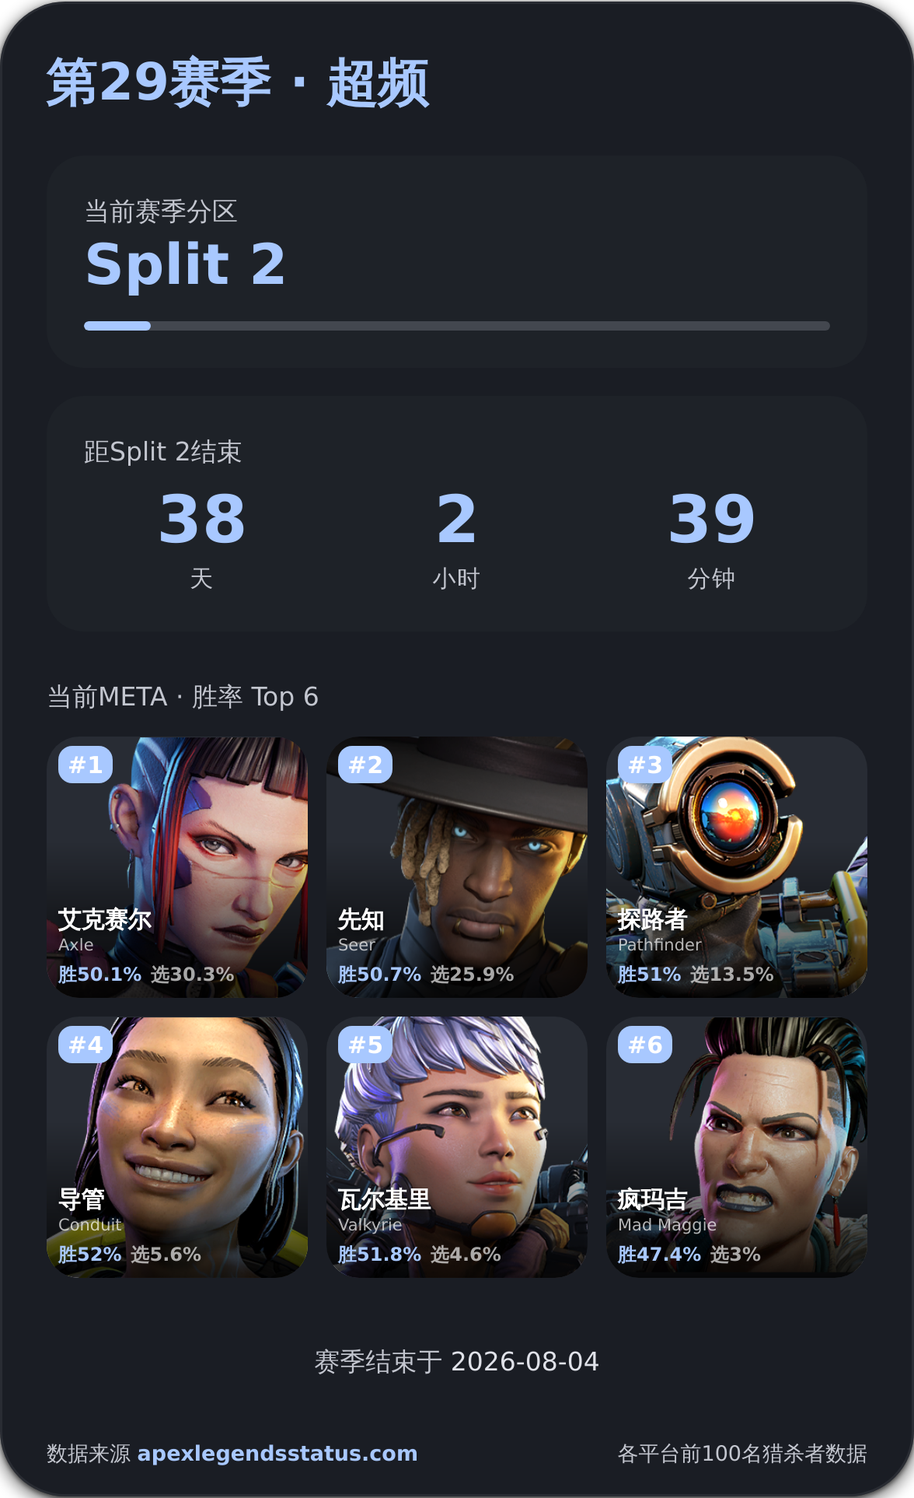
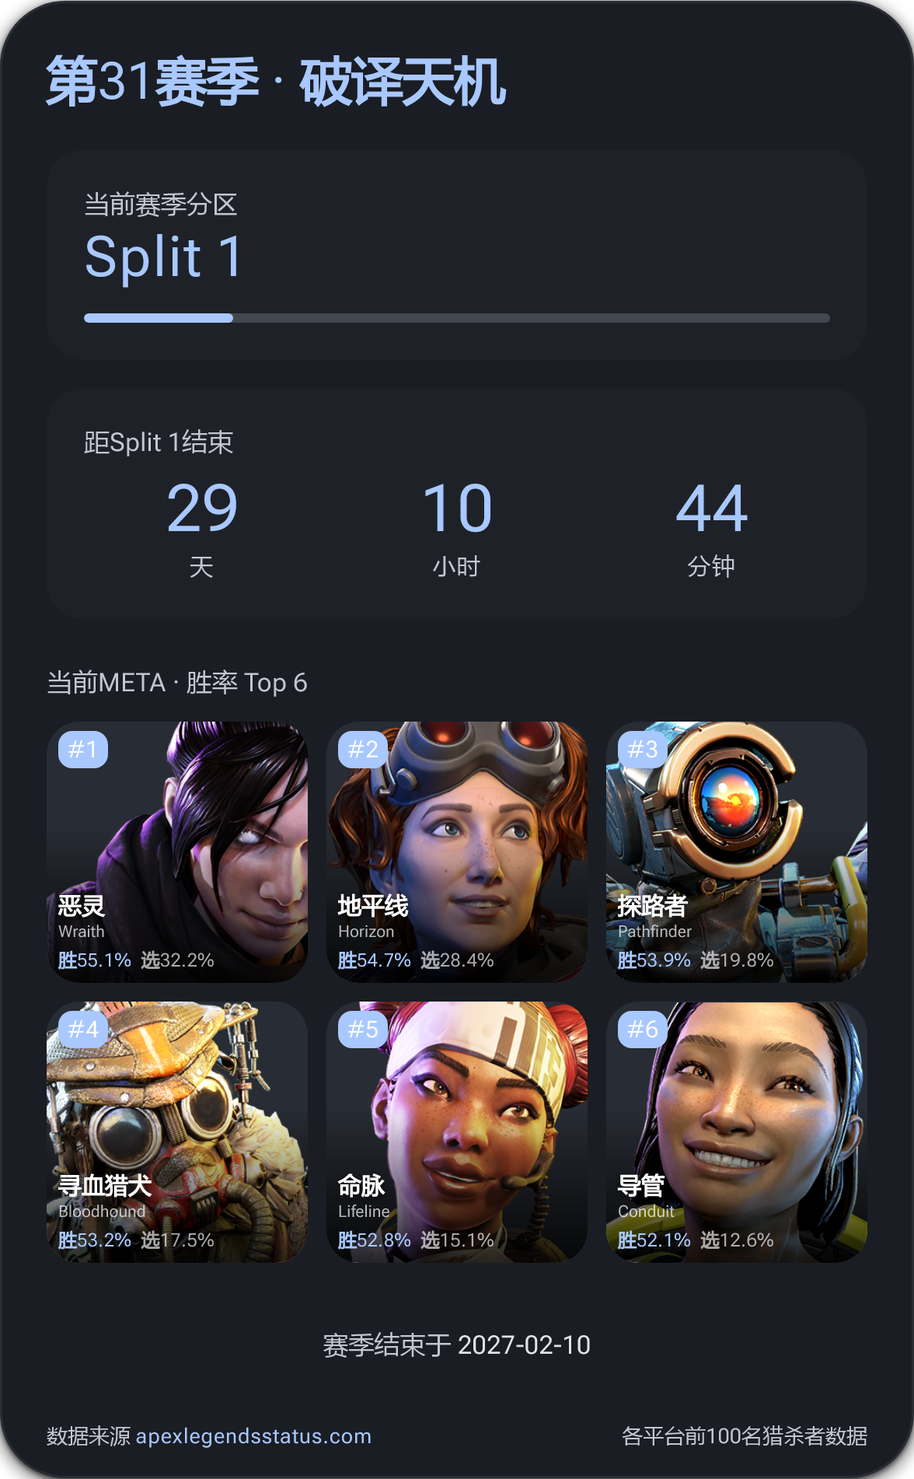
fix: 赛季卡片更新至 Season 31「破译天机」(Cipher)
- 硬编码赛季日期更新: 开始 2026-11-03 18:00 UTC (北京 11-04 02:00),
  Split 1 结束 2026-12-15 18:00 UTC (北京 12-16 02:00),
  赛季结束预估 2027-02-09 18:00 UTC (北京 02-10 02:00)
- 名称映射新增 "Cipher": "破译天机"（EA 官方简体中文译名，非意译）
- 修正时区惯例: S31 处于 PST(UTC-8), 10:00 PT = 18:00 UTC,
  旧注释的 17:00 UTC 是 PDT 夏令时换算，沿用会差 1 小时
- 数据来源: Microsoft Store SKU 9PHG4V7CMHJD
  (StartDate 2026-11-03T18:00:00Z / EndDate 2026-12-15T17:59:59Z),
  ALS new-season-countdown (unix 1797357600), wiki.gg Season_31
- 同步更新 README 预览图 (preview/season.png, preview/season dark.png)
- 新增 docs/season-31-data.md 数据核实报告、scripts/gen_season_preview.py 预览工具

diff --git a/libs/season_scraper.py b/libs/season_scraper.py
@@ -51,6 +51,7 @@ LEGEND_ZH = {
 
 # ── 赛季名中文映射 ──
 SEASON_NAME_ZH = {
+    "Cipher": "破译天机",
     "Marked": "诸神烙印",
     "Overclocked": "超频",
     "Breach": "突破",
@@ -86,15 +87,17 @@ SEASON_NAME_ZH = {
 # ALS legend icon base URL
 ALS_ICON_BASE = "https://apexlegendsstatus.com/assets/legends"
 
-# ── 赛季日期 (数据源: ALS, 时区为 UTC) ──
-# Season 30: 开始 2026-08-04 17:00 UTC, Split 1 结束 2026-09-15 17:00 UTC,
-#            赛季结束 2026-11-03 17:00 UTC (esportstales 预估)
-# Apex 更新惯例为 17:00 UTC (= 北京时间次日 01:00), 抓取时统一转成北京时间。
-# 参考: ALS new-season-countdown 显示 "Season 30: Marked, split 2 releases 16/09 @ 01:00" (北京)
-_SPLIT_DATES_S30 = {
-    "season_start": _dt.datetime(2026, 8, 4, 17, 0, tzinfo=_UTC),
-    "split1_end": _dt.datetime(2026, 9, 15, 17, 0, tzinfo=_UTC),
-    "season_end": _dt.datetime(2026, 11, 3, 17, 0, tzinfo=_UTC),
+# ── 赛季日期 (数据源: ALS / wiki.gg, 时区为 UTC) ──
+# Season 31: 开始 2026-11-03 18:00 UTC (北京 2026-11-04 02:00),
+#            Split 1 结束 2026-12-15 18:00 UTC (北京 2026-12-16 02:00),
+#            赛季结束 2027-02-09 18:00 UTC (北京 2027-02-10 02:00, 预估)
+# Apex 更新惯例为 10:00 PT = 18:00 UTC (= 北京时间次日 02:00), 抓取时统一转成北京时间。
+# 参考: ALS new-season-countdown 显示 "Releases 16/12 @ 02:00" (北京, unix 1797357600);
+#       wiki.gg Season_31 赛季结束 Feb 9, 2027。抓取日期 2026-11-16。
+_SPLIT_DATES_S31 = {
+    "season_start": _dt.datetime(2026, 11, 3, 18, 0, tzinfo=_UTC),
+    "split1_end": _dt.datetime(2026, 12, 15, 18, 0, tzinfo=_UTC),
+    "season_end": _dt.datetime(2027, 2, 9, 18, 0, tzinfo=_UTC),
 }
 
 
@@ -106,15 +109,15 @@ def _utc_to_bj(dt: _dt.datetime) -> _dt.datetime:
 def _determine_split_and_end() -> tuple[int, int, int, int]:
     """Determine current split and compute countdown. Returns (days, hours, minutes, split)."""
     now = _dt.datetime.now(tz=_CST)
-    split1_end = _utc_to_bj(_SPLIT_DATES_S30["split1_end"])
-    s30_end = _utc_to_bj(_SPLIT_DATES_S30["season_end"])
+    split1_end = _utc_to_bj(_SPLIT_DATES_S31["split1_end"])
+    s31_end = _utc_to_bj(_SPLIT_DATES_S31["season_end"])
 
     if now < split1_end:
         split = 1
         split_end = split1_end
     else:
         split = 2
-        split_end = s30_end
+        split_end = s31_end
 
     delta = split_end - now
     days = max(0, delta.days)
@@ -133,12 +136,12 @@ async def fetch_season_info() -> SeasonInfo | None:
 
     days_left, hours_left, minutes_left, split = _determine_split_and_end()
     split_label = f"Split {split}"
-    season_name_zh = SEASON_NAME_ZH.get("Marked", "诸神烙印")
-    season_start_bj = _utc_to_bj(_SPLIT_DATES_S30["season_start"]).strftime("%Y-%m-%d")
-    season_end_bj = _utc_to_bj(_SPLIT_DATES_S30["season_end"]).strftime("%Y-%m-%d")
+    season_name_zh = SEASON_NAME_ZH.get("Cipher", "破译天机")
+    season_start_bj = _utc_to_bj(_SPLIT_DATES_S31["season_start"]).strftime("%Y-%m-%d")
+    season_end_bj = _utc_to_bj(_SPLIT_DATES_S31["season_end"]).strftime("%Y-%m-%d")
 
     result = SeasonInfo(
-        season_number=30,
+        season_number=31,
         season_name=season_name_zh,
         season_start=season_start_bj,
         season_end=season_end_bj,

diff --git a/scripts/gen_season_preview.py b/scripts/gen_season_preview.py
@@ -1,0 +1,96 @@
+"""本地预览赛季信息卡片：真实数据 → Jinja HTML → Playwright PNG。
+
+用法（仓库根目录）：
+    python scripts/gen_season_preview.py [--live-meta]
+
+默认使用固定的 META 样例数据，避免依赖 ALS meta 页面；加 --live-meta 时
+尝试真实抓取，失败自动回退样例。输出：
+    data/preview_season/season.html
+    data/preview_season/season.png
+"""
+from __future__ import annotations
+
+import asyncio
+import sys
+from pathlib import Path
+
+_ROOT = Path(__file__).parent.parent
+sys.path.insert(0, str(_ROOT))
+
+_OUT = _ROOT / "data" / "preview_season"
+
+# 样例 META（真实抓取失败时使用；图标使用 ALS 公共资源路径）
+SAMPLE_META = [
+    {"name": "恶灵", "en": "Wraith", "win_rate": "55.1%", "pick_rate": "32.2%"},
+    {"name": "地平线", "en": "Horizon", "win_rate": "54.7%", "pick_rate": "28.4%"},
+    {"name": "探路者", "en": "Pathfinder", "win_rate": "53.9%", "pick_rate": "19.8%"},
+    {"name": "寻血猎犬", "en": "Bloodhound", "win_rate": "53.2%", "pick_rate": "17.5%"},
+    {"name": "命脉", "en": "Lifeline", "win_rate": "52.8%", "pick_rate": "15.1%"},
+    {"name": "导管", "en": "Conduit", "win_rate": "52.1%", "pick_rate": "12.6%"},
+]
+
+
+def _fallback_meta():
+    from libs.season_scraper import SeasonMetaLegend
+
+    return [
+        SeasonMetaLegend(
+            name=m["name"],
+            en=m["en"],
+            icon=(
+                "https://apexlegendsstatus.com/assets/legends-select/"
+                f"{m['en'].lower().replace(' ', '')}.png"
+            ),
+            win_rate=m["win_rate"],
+            pick_rate=m["pick_rate"],
+        )
+        for m in SAMPLE_META
+    ]
+
+
+async def main() -> int:
+    from libs import season_scraper
+    from libs.playwright_renderer import _build_season_html, draw_season_card
+
+    _OUT.mkdir(parents=True, exist_ok=True)
+
+    season = await season_scraper.fetch_season_info()
+    if season is None:
+        print("[ERR] fetch_season_info() 返回 None")
+        return 1
+
+    meta = []
+    if "--live-meta" in sys.argv:
+        try:
+            meta = await season_scraper.fetch_meta_top5()
+            print(f"[INFO] live meta: {len(meta)} 条")
+        except Exception as exc:  # noqa: BLE001 - 预览脚本，失败回退即可
+            print(f"[WARN] live meta 失败，回退样例: {type(exc).__name__}: {exc}")
+    if not meta:
+        meta = _fallback_meta()
+        print(f"[INFO] sample meta: {len(meta)} 条")
+
+    html = _build_season_html(season, meta)
+    html_path = _OUT / "season.html"
+    html_path.write_text(html, encoding="utf-8")
+    print(f"[OK] HTML -> {html_path}")
+
+    png = await draw_season_card(season, meta)
+    if not png:
+        print("[ERR] draw_season_card() 返回空")
+        return 1
+    png_path = _OUT / "season.png"
+    png_path.write_bytes(png)
+    print(f"[OK] PNG  -> {png_path} ({len(png)} bytes)")
+
+    print("\n── 卡片数据 ──")
+    print(
+        f"第{season.season_number}赛季 {season.season_name} | {season.split_label} | "
+        f"倒计时 {season.days_left}d {season.hours_left}h {season.minutes_left}m | "
+        f"结束 {season.season_end} | 开始 {season.season_start}"
+    )
+    return 0
+
+
+if __name__ == "__main__":
+    raise SystemExit(asyncio.run(main()))

diff --git a/docs/season-31-data.md b/docs/season-31-data.md
@@ -1,0 +1,216 @@
+# Season 31「破译天机」(Cipher) 赛季数据核实报告
+
+> 调研日期：2026-11-16（Asia/Shanghai）
+> 用途：为 `libs/season_scraper.py` 的硬编码赛季日期（当前仍为 Season 30「诸神烙印」Marked）提供 Season 31 的替换数据。
+> 本文件为纯调研产出，未修改任何源码。
+
+---
+
+## 一、结论速览
+
+| 字段 | 值（UTC） | 值（北京时间 Asia/Shanghai） | 置信度 | 性质 |
+| --- | --- | --- | --- | --- |
+| 英文赛季名 | `Cipher` | — | 高 | 官方确认 |
+| 官方简体中文名 | `破译天机` | — | 高 | 官方确认（EA 官方中文站） |
+| `season_start` | 2026-11-03 18:00 UTC | 2026-11-04 02:00 | 高 | 官方确认（商店 SKU 时间戳） |
+| `split1_end` | 2026-12-15 18:00 UTC | 2026-12-16 02:00 | 高 | 官方确认（通行证售卖截止 + ALS 倒计时） |
+| `season_end` | 2027-02-09 18:00 UTC | 2027-02-10 02:00 | 中 | **预估**（日期来自 wiki，时刻为惯例推定） |
+
+**给 `season_scraper.py` 的建议值（UTC）：**
+
+```python
+_SPLIT_DATES_S31 = {
+    "season_start": _dt.datetime(2026, 11, 3, 18, 0, tzinfo=_UTC),
+    "split1_end":   _dt.datetime(2026, 12, 15, 18, 0, tzinfo=_UTC),
+    "season_end":   _dt.datetime(2027, 2, 9, 18, 0, tzinfo=_UTC),
+}
+```
+
+> ⚠ **关键修正**：仓库现有注释写「Apex 更新惯例为 17:00 UTC」，那是**夏令时（PDT, UTC-7）**时期的换算。Season 31 于 2026-11-03 开赛，此时美国已于 **2026-11-01 结束夏令时**，太平洋时间回到 **PST = UTC-8**，因此 10:00 PT = **18:00 UTC**（北京次日 02:00），比夏季晚 1 小时。Season 30 的 17:00 UTC 是 8 月（PDT）的正确换算，Season 31 必须改成 18:00 UTC。
+
+---
+
+## 二、英文名与中文译名
+
+### 2.1 英文名：`Cipher`（确认）
+
+- EA 官方补丁说明标题即 `Apex Legends™: Cipher Patch Notes`（2026-11-02 发布）。
+- Apex Legends Wiki 的 Season 31 页面 infobox 与正文均写作 *Cipher*。
+- 拼写无歧义，非 *Cypher*（部分第三方站点如 esportstales 误写为 "Cypher"，属笔误，不予采信）。
+
+### 2.2 官方简体中文名：`破译天机`（官方确认，非意译候选）
+
+**这是本次调研最重要的发现：Season 31 有 EA 官方简体中文译名，不需要自创意译。**
+
+证据链：
+
+1. **EA 官方中文站（繁体）** 的补丁说明页标题为《Apex 英雄：**破譯天機**》改版資訊，正文首句「《Apex 英雄：破譯天機》登場！」。
+   <https://www.ea.com/zh-hant/games/apex-legends/apex-legends/news/cipher-patch-notes>
+2. **EA 官方中文站（繁体）赛季专题页** 标题《Apex 英雄：破譯天機》，副标题「在《Apex 英雄：破譯天機》中駭入戰鬥」。
+   <https://www.ea.com/zh-hant/games/apex-legends/apex-legends/seasons/cipher>
+3. **EA Help 简体中文支持文章**（这是**简体**官方文本，直接给出简体译名）：「《Apex Legends》最新赛季"**破译天机**"将于 2026 年 11 月 3 日开启。」并在过往赛季列表中写作「诸神烙印（第 30 赛季）」「超频（第 29 赛季）」——与仓库 `SEASON_NAME_ZH` 的历史译名完全一致，说明该表本就以 EA 官方中文名为准。
+   <https://help.ea.com/zh/articles/apex-legends/seasons-and-updates/>
+4. 中文媒体一致沿用该官方译名：游侠网《Apex英雄：破译天机》11 月 3 日上线、17173、TapTap 官方社区、VeryApex、Steam 中文社区等。
+
+**结论**：`SEASON_NAME_ZH` 应新增 `"Cipher": "破译天机"`。
+
+### 2.3 备选意译（仅作记录，不推荐使用）
+
+若未来某赛季确实没有官方译名，可参考以下思路；但 Season 31 已有官方名，**不应采用**：
+
+| 候选 | 理由 | 问题 |
+| --- | --- | --- |
+| 密文 / 密码 | cipher 的字面义，直白 | 过于平淡，缺少赛季主题的「情报战」张力 |
+| 暗码 | 呼应本赛季主角密客（Crypto）与「情报即武器」主题 | 与官方名冲突 |
+| 破译天机 | **官方译名**，取「破解天机、抢占先机」之意 | — |
+
+---
+
+## 三、三个时间点的推导与依据
+
+### 3.1 `season_start` = 2026-11-03 18:00 UTC（北京 2026-11-04 02:00）
+
+**DST 校验**：美国 2026 年夏令时于 **2026-11-01** 结束（2:00 AM PDT → 1:00 AM PST）。2026-11-03 处于 **PST（UTC-8）**。Apex 赛季更新惯例为太平洋时间 10:00 AM，故：
+
+```
+10:00 PST (UTC-8) = 18:00 UTC = 北京时间 2026-11-04 02:00
+```
+
+（若按夏季 PDT/UTC-7 换算才会得到 17:00 UTC / 北京 01:00 —— 这正是仓库旧注释的来源，Season 31 不适用。）
+
+**证据：**
+
+| 来源 | 内容 | 分级 |
+| --- | --- | --- |
+| Microsoft Store 商品 API（Cipher Ultimate+ Battle Pass Split 1，ProductId `9PHG4V7CMHJD`） | SKU `StartDate: "2026-11-03T18:00:00Z"` —— **机器可读的官方商店时间戳，最硬证据** | 官方确认 |
+| <https://apexranked.com/apex-season-31> | "Season 31 started Tuesday, November 3, 2026 at 10:00 AM PST (6:00 PM UTC)"，并列出各城市对照（London 6:00 PM、Tokyo Wed 3:00 AM） | 媒体（与官方一致） |
+| <https://clip.dor.gg/zh-CN/blog/apex-new-season> | 「美国夏令时已在 11 月 1 日结束，换算北京时间是 11 月 4 日（周三）凌晨 2 点……网上有些时间表仍按夏令时换算，会差 1 小时」 | 媒体（明确点出 DST 陷阱） |
+| <https://www.ea.com/games/apex-legends/apex-legends/news/cipher-patch-notes> | "Season 31 begins on November 3rd"（只给日期，未给时刻） | 官方确认（日期） |
+| <https://help.ea.com/en/articles/apex-legends/seasons-and-updates/> | "Cipher, the newest Season of Apex Legends, launches on November 3, 2026"（只给日期） | 官方确认（日期） |
+
+> 注：EA 官方公告**从不公布具体开服时刻**，只给日期。18:00 UTC 的依据是「官方商店 SKU 时间戳 + 10:00 PT 惯例 + DST 校验」三者吻合。
+
+### 3.2 `split1_end` = 2026-12-15 18:00 UTC（北京 2026-12-16 02:00）
+
+**证据：**
+
+| 来源 | 内容 | 分级 |
+| --- | --- | --- |
+| Microsoft Store 商品 API（同上 SKU） | `EndDate: "2026-12-15T17:59:59Z"`（即 18:00 UTC 截止） | 官方确认 |
+| PlayStation Store（Cipher Ultimate+ Battle Pass Split 1） | "The \"Cipher\" Ultimate+ Battle Pass Split 1 is available until **December 15th, 2026 10 AM PT**." | 官方确认 |
+| Xbox Store（Cipher Ultimate Battle Pass Split 1） | "available until December 15th, 2026 at 10 AM PT" | 官方确认 |
+| <https://apexlegendsstatus.com/new-season-countdown.php> | 页面内嵌 `let startTime = 1797357600;` → 换算 UTC **2026-12-15 18:00:00**（周二），页面渲染为 "Releases 16/12 @ 02:00"（本地时区北京） | 社区权威（ALS） |
+| <https://blog.gamee.games/apex-season31-split1-end-date-2026/> | 「スプリット1終了：日本時間 2026年12月16日（水）午前3:00（太平洋標準時 12月15日 10:00 AM PST）」，并说明依据是 PS/Xbox 商店「Cipher Ultimate Battle Pass Split 1」商品页的售卖截止 | 媒体（与官方商店一致） |
+| <https://www.propelrc.com/apex-legends-next-season-start-date/> | "Season 31 Split 1 reset is scheduled for December 15, 2026, around 10:00 AM, per EA Help and the Apex Legends Status tracker" | 媒体 |
+
+**换算校验**：`1797357600` → UTC `2026-12-15 18:00:00`（周二）→ 北京 `2026-12-16 02:00`（周三）→ JST `2026-12-16 03:00`。与日媒「12月16日午前3:00」完全吻合，交叉验证通过。
+
+**Split 1 时长**：2026-11-03 → 2026-12-15 = **42 天（6 周整）**，与 Apex 惯例（约 6 周）一致。
+
+### 3.3 `season_end` = 2027-02-09 18:00 UTC（北京 2027-02-10 02:00）—— **预估**
+
+**日期部分（2027-02-09）来源：**
+
+| 来源 | 内容 | 分级 |
+| --- | --- | --- |
+| <https://apexlegends.wiki.gg/wiki/Season_31> | infobox `End date: February 9, 2027`；正文 "will be ended on February 9, 2027" | 社区 wiki（非官方，但为最常被引用的赛季表） |
+| <https://apexseasons.online/seasons/season-31-cipher/> | "Ends Feb 9, 2027"，Duration 98 days，Data Confidence: **medium**；并明确 "February 9, 2027 at 18:00 UTC is a planning estimate using the 14-week length of recent November seasons, not an announced Season 32 release" | 媒体预估（自述为 estimate） |
+
+**时刻部分（18:00 UTC）**：EA **未公布** Season 31 结束时刻。采用 18:00 UTC 的理由：
+1. 与 `season_start` / `split1_end` 同为 PST 时期 10:00 AM PT 的换算结果，赛季切换与 Split 切换在 Apex 中始终同一时刻；
+2. 2027-02-09 仍处于 PST（美国 2027 年夏令时 3 月才开始），故 10:00 PT = 18:00 UTC。
+
+**矛盾来源（必须记录）：**
+
+| 来源 | 给出的结束日 | 说明 |
+| --- | --- | --- |
+| wiki.gg / apexseasons.online | **2027-02-09** | 98 天赛季长度（14 周），与近期 11 月赛季节奏一致 |
+| <https://ggseason.com/apex/> | 2027-02-02（EST.） | 按「约 3 个月」粗估，未考虑 14 周 |
+| <https://boostroyal.com/apex-season> | 2027-02-02（expected） | 同上，且自述 "Respawn has not published an end date" |
+| <https://apexdb.gg/season/season-31/> | 区间 2027-01-25 ~ 2027-02-08 | 按 83~97 天区间推算，明确 "That's an estimate, not EA's date" |
+| <https://blog.gamee.games/apex-season32-when-2027/> | 2027-02-03（JST 03:00） | 由 Split 1 结束 + 7 周推算 |
+| <https://www.esportstales.com/apex-legends/season-end-date> | "around mid February, 2027" | 只给模糊区间 |
+
+**最终采信**：`2027-02-09 18:00 UTC`。理由：wiki.gg 的 2/9 与 98 天（14 周）赛季长度自洽，且 11 月开赛的赛季历史上多为 14 周（如 Season 23 From the Rift 97 天、Season 27 Amped 98 天）；其余站点多为「3 个月」粗估。**但必须标注为预估，EA 未确认。**
+
+---
+
+## 四、完整来源清单
+
+抓取时间均为 **2026-11-16 15:00–15:25 (Asia/Shanghai)**。
+
+### 官方（EA / Respawn / 平台商店）
+
+| # | URL | 提供的信息 | 分级 |
+| --- | --- | --- | --- |
+| 1 | <https://www.ea.com/games/apex-legends/apex-legends/news/cipher-patch-notes> | 赛季名 Cipher；"Season 31 begins on November 3rd"；Split 1 内容 | 官方确认 |
+| 2 | <https://www.ea.com/zh-hant/games/apex-legends/apex-legends/news/cipher-patch-notes> | **官方中文名《Apex 英雄：破譯天機》** | 官方确认 |
+| 3 | <https://www.ea.com/zh-hant/games/apex-legends/apex-legends/seasons/cipher> | 官方中文赛季专题页《Apex 英雄：破譯天機》 | 官方确认 |
+| 4 | <https://help.ea.com/zh/articles/apex-legends/seasons-and-updates/> | **简体官方文本「破译天机」**；过往赛季中文名表（诸神烙印/超频…） | 官方确认 |
+| 5 | <https://help.ea.com/en/articles/apex-legends/seasons-and-updates/> | "Cipher … launches on November 3, 2026"；Season 30 Marked 结束于 2026-11-02 | 官方确认 |
+| 6 | <https://www.ea.com/games/apex-legends/apex-legends/news/cipher-game-updates> | 2026-10-29 玩法预告（Crypto 重做、Akimbo Wingman、Strongholds） | 官方确认 |
+| 7 | Microsoft Store 商品 API `https://storeedgefd.dsx.mp.microsoft.com/v9.0/products/9PHG4V7CMHJD?market=US&locale=en-US&deviceFamily=Windows.Xbox` | **`StartDate 2026-11-03T18:00:00Z` / `EndDate 2026-12-15T17:59:59Z`** | 官方确认（机器可读） |
+| 8 | <https://store.playstation.com/en-us/product/UP0006-CUSA12540_00-S310ULTIMATEPLUS> | "available until December 15th, 2026 10 AM PT" | 官方确认 |
+| 9 | <https://www.xbox.com/en-US/games/store/apex-legends-cipher-ultimate-battle-pass-split-1/9nwbnp4lxq86> | "available until December 15th, 2026 at 10 AM PT" | 官方确认 |
+
+### 社区 / 媒体（交叉验证）
+
+| # | URL | 提供的信息 | 分级 |
+| --- | --- | --- | --- |
+| 10 | <https://apexlegends.wiki.gg/wiki/Season_31> | Start 2026-11-03 / End **2027-02-09**；主题 Nanite；Reactive Wingman | 社区 wiki |
+| 11 | <https://apexlegendsstatus.com/new-season-countdown.php> | `startTime = 1797357600` → 2026-12-15 18:00 UTC；"Season 31 : Cipher, split 1" | 社区权威（ALS） |
+| 12 | <https://apexranked.com/apex-season-31> | "10:00 AM PST (6:00 PM UTC)"，各城市时刻表 | 媒体（与官方一致） |
+| 13 | <https://apexranked.com/apex-ranked-reset> | "Season 31 Split 1 Started Nov 3, 2026 10:00 AM PST"；"next reset time has not been confirmed" | 媒体 |
+| 14 | <https://clip.dor.gg/zh-CN/blog/apex-new-season> | 北京 11-04 02:00；明确 DST 陷阱说明 | 媒体（中文） |
+| 15 | <https://blog.gamee.games/apex-season31-split1-end-date-2026/> | Split 1 结束 JST 2026-12-16 03:00（= PST 12-15 10:00） | 媒体（日文） |
+| 16 | <https://blog.gamee.games/apex-season32-when-2027/> | S32 预估 2027-02-03 JST（= 02-02 10:00 PST） | 媒体预估 |
+| 17 | <https://apexseasons.online/seasons/season-31-cipher/> | End Feb 9 2027 18:00 UTC（自述 estimate，confidence medium） | 媒体预估 |
+| 18 | <https://apexdb.gg/season/season-31/> | "EA hasn't said when Season 31 ends"；区间 2027-01-25 ~ 02-08 | 媒体预估 |
+| 19 | <https://ggseason.com/apex/> | 预估 2027-02-02 | 媒体预估 |
+| 20 | <https://boostroyal.com/apex-season> | 预估 2027-02-02；"Respawn has not published an end date" | 媒体预估 |
+| 21 | <https://www.esportstales.com/apex-legends/season-end-date> | "around mid February, 2027"；赛季起止表（S31 写作 "Cypher"，笔误） | 媒体预估 |
+| 22 | <https://www.propelrc.com/apex-legends-next-season-start-date/> | Split 1 reset 2026-12-15 约 10:00 AM | 媒体 |
+| 23 | <https://www.ali213.net/news/html/2026-10/1050531.html> | 游侠网：《Apex英雄：破译天机》11 月 3 日上线（官方稿件转载） | 媒体（中文） |
+| 24 | <https://www.taptap.cn/moment/866656388753919185> | TapTap：新赛季「破译天机」正式上线 | 媒体（中文） |
+
+### 抓取失败 / 不可用（记录以便复现）
+
+- `https://dotesports.com/apex-legends/news/start-end-dates-apex-legends-seasons` → HTTP 403（反爬），未能取得赛季起止表。
+- `https://liquipedia.net/apexlegends/Season_31` → Cloudflare 人机验证，未取得内容。
+- `https://apexlegends.wiki.gg/wiki/Season_31?action=raw` / `api.php` / `Special:Export` → HTTP 403，只能读渲染后的 HTML。
+- `https://apexlegendsstatus.com/new-season-countdown`（无 `.php`）→ HTTP 406，必须用 `.php` 变体。
+- `https://psdeals.net` / `https://xbdeals.net` 搜索页 → HTTP 403。
+- `https://www.trueachievements.com/products/...` → HTTP 403。
+
+---
+
+## 五、与仓库现状的差异（供改代码时参考）
+
+| 项 | 仓库当前（Season 30） | Season 31 应为 |
+| --- | --- | --- |
+| `season_number` | 30 | **31** |
+| `season_name` | 诸神烙印 | **破译天机** |
+| `SEASON_NAME_ZH` | 无 `Cipher` 键 | 新增 `"Cipher": "破译天机"` |
+| `season_start` | 2026-08-04 17:00 UTC | **2026-11-03 18:00 UTC** |
+| `split1_end` | 2026-09-15 17:00 UTC | **2026-12-15 18:00 UTC** |
+| `season_end` | 2026-11-03 17:00 UTC | **2027-02-09 18:00 UTC**（预估） |
+| 注释「惯例 17:00 UTC」 | 夏令时换算 | 应改为「夏令时 17:00 UTC / 冬令时 18:00 UTC」 |
+
+**当前时点（2026-11-16）应显示**：Season 31、Split 1、距 Split 1 结束约 29 天。
+
+---
+
+## 六、置信度总结
+
+| 结论 | 置信度 | 说明 |
+| --- | --- | --- |
+| EN 名 = Cipher | ★★★★★ | EA 官方标题 + wiki 双重确认 |
+| 中文名 = 破译天机 | ★★★★★ | EA 官方中文站（繁）+ EA Help 简体中文文本，非意译 |
+| season_start = 2026-11-03 18:00 UTC | ★★★★★ | 官方商店 SKU 时间戳 `2026-11-03T18:00:00Z` 直接命中 |
+| split1_end = 2026-12-15 18:00 UTC | ★★★★★ | 官方商店 SKU `EndDate` + PS/Xbox 售卖截止 + ALS unix 时间戳三方吻合 |
+| season_end 日期 = 2027-02-09 | ★★★☆☆ | 仅 wiki.gg 与 apexseasons 给出，EA 未公布；另有 2/2、2/3 等预估 |
+| season_end 时刻 = 18:00 UTC | ★★★☆☆ | 按 PST 惯例推定，EA 未公布 |
+
+---
+
+*本报告仅写入 `docs/season-31-data.md`，未修改 `libs/`、`jinja/`、`main.py`、`CHANGELOG.md`、`tests/`、`scripts/`，未执行 git commit。*

diff --git a/CHANGELOG.md b/CHANGELOG.md
@@ -14,6 +14,7 @@
 - 大师数据与 24h 变动并行获取，缓存同时保留 24h 变动；修复 LLM 组队列表文字结果异常，移除无用图片编码。
 
 ### ✨ 新功能
+- **赛季信息卡更新至 Season 31「破译天机」(Cipher)**：硬编码赛季日期更新（开始 11-03 18:00 UTC / 北京 11-04 02:00，Split 1 结束 12-15 18:00 UTC / 北京 12-16 02:00，赛季结束预估 02-09 18:00 UTC / 北京 02-10 02:00），名称映射新增 "Cipher"
 - **赛季信息卡更新至 Season 30「诸神烙印」(Marked)**：硬编码赛季日期更新（开始 08-04 17:00 UTC / 北京 08-05 01:00，Split 1 结束 09-15 17:00 UTC / 北京 09-16 01:00，赛季结束预估 11-03 17:00 UTC / 北京 11-04 01:00），名称映射新增 "Marked"
 
 ### 🐛 修复
